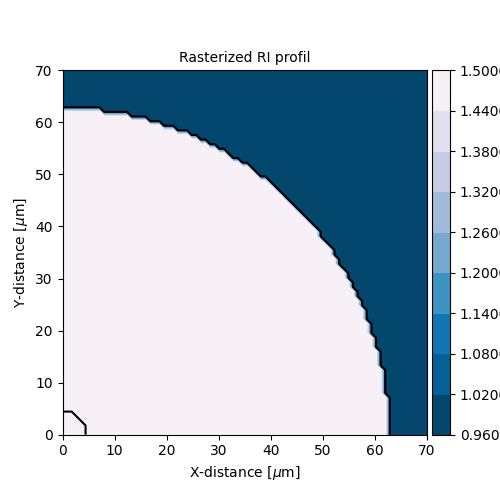
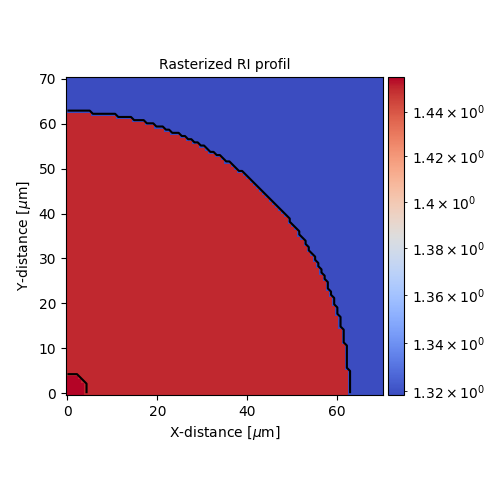
added holes to rasterized mesh

diff --git a/docs/build/html/Examples.html b/docs/build/html/Examples.html
@@ -62,7 +62,7 @@
 </pre></div>
 </td></tr></table></div>
 </div>
-<a class="reference internal image-reference" href="_images/Geometry:1x1coupler.png"><img alt="_images/Geometry:1x1coupler.png" src="_images/Geometry:1x1coupler.png" style="width: 600px;" /></a>
+<a class="reference internal image-reference" href="_images/Geometry:1x1coupler.png"><img alt="_images/Geometry:1x1coupler.png" src="_images/Geometry:1x1coupler.png" style="width: 900px;" /></a>
 <div class="literal-block-wrapper docutils container" id="id2">
 <div class="code-block-caption"><span class="caption-text"><strong>Coupler geometry: 2x2</strong></span><a class="headerlink" href="#id2" title="Permalink to this code">¶</a></div>
 <div class="highlight-python notranslate"><table class="highlighttable"><tr><td class="linenos"><div class="linenodiv"><pre>1
@@ -79,7 +79,7 @@
 </pre></div>
 </td></tr></table></div>
 </div>
-<a class="reference internal image-reference" href="_images/Geometry:2x2coupler.png"><img alt="_images/Geometry:2x2coupler.png" src="_images/Geometry:2x2coupler.png" style="width: 600px;" /></a>
+<a class="reference internal image-reference" href="_images/Geometry:2x2coupler.png"><img alt="_images/Geometry:2x2coupler.png" src="_images/Geometry:2x2coupler.png" style="width: 900px;" /></a>
 <div class="literal-block-wrapper docutils container" id="id3">
 <div class="code-block-caption"><span class="caption-text"><strong>Coupler geometry: 3x3</strong></span><a class="headerlink" href="#id3" title="Permalink to this code">¶</a></div>
 <div class="highlight-python notranslate"><table class="highlighttable"><tr><td class="linenos"><div class="linenodiv"><pre>1
@@ -96,7 +96,7 @@
 </pre></div>
 </td></tr></table></div>
 </div>
-<a class="reference internal image-reference" href="_images/Geometry:3x3coupler.png"><img alt="_images/Geometry:3x3coupler.png" src="_images/Geometry:3x3coupler.png" style="width: 600px;" /></a>
+<a class="reference internal image-reference" href="_images/Geometry:3x3coupler.png"><img alt="_images/Geometry:3x3coupler.png" src="_images/Geometry:3x3coupler.png" style="width: 900px;" /></a>
 <div class="literal-block-wrapper docutils container" id="id4">
 <div class="code-block-caption"><span class="caption-text"><strong>Coupler geometry: 4x4</strong></span><a class="headerlink" href="#id4" title="Permalink to this code">¶</a></div>
 <div class="highlight-python notranslate"><table class="highlighttable"><tr><td class="linenos"><div class="linenodiv"><pre>1
@@ -113,7 +113,7 @@
 </pre></div>
 </td></tr></table></div>
 </div>
-<a class="reference internal image-reference" href="_images/Geometry:4x4coupler.png"><img alt="_images/Geometry:4x4coupler.png" src="_images/Geometry:4x4coupler.png" style="width: 600px;" /></a>
+<a class="reference internal image-reference" href="_images/Geometry:4x4coupler.png"><img alt="_images/Geometry:4x4coupler.png" src="_images/Geometry:4x4coupler.png" style="width: 900px;" /></a>
 </div>
 <div class="section" id="compute-indexes-coupling-adiabatic">
 <h2>Compute indexes-coupling-adiabatic<a class="headerlink" href="#compute-indexes-coupling-adiabatic" title="Permalink to this headline">¶</a></h2>
@@ -177,11 +177,11 @@
 </pre></div>
 </td></tr></table></div>
 </div>
-<a class="reference internal image-reference" href="_images/Full:1x1Coupler_profile.png"><img alt="_images/Full:1x1Coupler_profile.png" src="_images/Full:1x1Coupler_profile.png" style="width: 600px;" /></a>
-<a class="reference internal image-reference" href="_images/Full:1x1Coupler_index.png"><img alt="_images/Full:1x1Coupler_index.png" src="_images/Full:1x1Coupler_index.png" style="width: 600px;" /></a>
-<a class="reference internal image-reference" href="_images/Full:1x1Coupler_coupling.png"><img alt="_images/Full:1x1Coupler_coupling.png" src="_images/Full:1x1Coupler_coupling.png" style="width: 600px;" /></a>
-<a class="reference internal image-reference" href="_images/Full:1x1Coupler_adiabatic.png"><img alt="_images/Full:1x1Coupler_adiabatic.png" src="_images/Full:1x1Coupler_adiabatic.png" style="width: 600px;" /></a>
-<a class="reference internal image-reference" href="_images/Full:1x1Coupler_fields.png"><img alt="_images/Full:1x1Coupler_fields.png" src="_images/Full:1x1Coupler_fields.png" style="width: 600px;" /></a>
+<a class="reference internal image-reference" href="_images/Full:1x1Coupler_profile.png"><img alt="_images/Full:1x1Coupler_profile.png" src="_images/Full:1x1Coupler_profile.png" style="width: 900px;" /></a>
+<a class="reference internal image-reference" href="_images/Full:1x1Coupler_index.png"><img alt="_images/Full:1x1Coupler_index.png" src="_images/Full:1x1Coupler_index.png" style="width: 900px;" /></a>
+<a class="reference internal image-reference" href="_images/Full:1x1Coupler_coupling.png"><img alt="_images/Full:1x1Coupler_coupling.png" src="_images/Full:1x1Coupler_coupling.png" style="width: 900px;" /></a>
+<a class="reference internal image-reference" href="_images/Full:1x1Coupler_adiabatic.png"><img alt="_images/Full:1x1Coupler_adiabatic.png" src="_images/Full:1x1Coupler_adiabatic.png" style="width: 900px;" /></a>
+<a class="reference internal image-reference" href="_images/Full:1x1Coupler_fields.png"><img alt="_images/Full:1x1Coupler_fields.png" src="_images/Full:1x1Coupler_fields.png" style="width: 900px;" /></a>
 <div class="literal-block-wrapper docutils container" id="id6">
 <div class="code-block-caption"><span class="caption-text"><strong>2x2 Coupler</strong></span><a class="headerlink" href="#id6" title="Permalink to this code">¶</a></div>
 <div class="highlight-python notranslate"><table class="highlighttable"><tr><td class="linenos"><div class="linenodiv"><pre> 1
@@ -258,11 +258,11 @@
 </pre></div>
 </td></tr></table></div>
 </div>
-<a class="reference internal image-reference" href="_images/Full:2x2Coupler_profile.png"><img alt="_images/Full:2x2Coupler_profile.png" src="_images/Full:2x2Coupler_profile.png" style="width: 600px;" /></a>
-<a class="reference internal image-reference" href="_images/Full:2x2Coupler_index.png"><img alt="_images/Full:2x2Coupler_index.png" src="_images/Full:2x2Coupler_index.png" style="width: 600px;" /></a>
-<a class="reference internal image-reference" href="_images/Full:2x2Coupler_coupling.png"><img alt="_images/Full:2x2Coupler_coupling.png" src="_images/Full:2x2Coupler_coupling.png" style="width: 600px;" /></a>
-<a class="reference internal image-reference" href="_images/Full:2x2Coupler_adiabatic.png"><img alt="_images/Full:2x2Coupler_adiabatic.png" src="_images/Full:2x2Coupler_adiabatic.png" style="width: 600px;" /></a>
-<a class="reference internal image-reference" href="_images/Full:2x2Coupler_fields.png"><img alt="_images/Full:2x2Coupler_fields.png" src="_images/Full:2x2Coupler_fields.png" style="width: 600px;" /></a>
+<a class="reference internal image-reference" href="_images/Full:2x2Coupler_profile.png"><img alt="_images/Full:2x2Coupler_profile.png" src="_images/Full:2x2Coupler_profile.png" style="width: 900px;" /></a>
+<a class="reference internal image-reference" href="_images/Full:2x2Coupler_index.png"><img alt="_images/Full:2x2Coupler_index.png" src="_images/Full:2x2Coupler_index.png" style="width: 900px;" /></a>
+<a class="reference internal image-reference" href="_images/Full:2x2Coupler_coupling.png"><img alt="_images/Full:2x2Coupler_coupling.png" src="_images/Full:2x2Coupler_coupling.png" style="width: 900px;" /></a>
+<a class="reference internal image-reference" href="_images/Full:2x2Coupler_adiabatic.png"><img alt="_images/Full:2x2Coupler_adiabatic.png" src="_images/Full:2x2Coupler_adiabatic.png" style="width: 900px;" /></a>
+<a class="reference internal image-reference" href="_images/Full:2x2Coupler_fields.png"><img alt="_images/Full:2x2Coupler_fields.png" src="_images/Full:2x2Coupler_fields.png" style="width: 900px;" /></a>
 <div class="literal-block-wrapper docutils container" id="id7">
 <div class="code-block-caption"><span class="caption-text"><strong>3x3 Coupler</strong></span><a class="headerlink" href="#id7" title="Permalink to this code">¶</a></div>
 <div class="highlight-python notranslate"><table class="highlighttable"><tr><td class="linenos"><div class="linenodiv"><pre> 1
@@ -335,11 +335,11 @@
 </pre></div>
 </td></tr></table></div>
 </div>
-<a class="reference internal image-reference" href="_images/Full:3x3Coupler_profile.png"><img alt="_images/Full:3x3Coupler_profile.png" src="_images/Full:3x3Coupler_profile.png" style="width: 600px;" /></a>
-<a class="reference internal image-reference" href="_images/Full:3x3Coupler_index.png"><img alt="_images/Full:3x3Coupler_index.png" src="_images/Full:3x3Coupler_index.png" style="width: 600px;" /></a>
-<a class="reference internal image-reference" href="_images/Full:3x3Coupler_coupling.png"><img alt="_images/Full:3x3Coupler_coupling.png" src="_images/Full:3x3Coupler_coupling.png" style="width: 600px;" /></a>
-<a class="reference internal image-reference" href="_images/Full:3x3Coupler_adiabatic.png"><img alt="_images/Full:3x3Coupler_adiabatic.png" src="_images/Full:3x3Coupler_adiabatic.png" style="width: 600px;" /></a>
-<a class="reference internal image-reference" href="_images/Full:3x3Coupler_fields.png"><img alt="_images/Full:3x3Coupler_fields.png" src="_images/Full:3x3Coupler_fields.png" style="width: 600px;" /></a>
+<a class="reference internal image-reference" href="_images/Full:3x3Coupler_profile.png"><img alt="_images/Full:3x3Coupler_profile.png" src="_images/Full:3x3Coupler_profile.png" style="width: 900px;" /></a>
+<a class="reference internal image-reference" href="_images/Full:3x3Coupler_index.png"><img alt="_images/Full:3x3Coupler_index.png" src="_images/Full:3x3Coupler_index.png" style="width: 900px;" /></a>
+<a class="reference internal image-reference" href="_images/Full:3x3Coupler_coupling.png"><img alt="_images/Full:3x3Coupler_coupling.png" src="_images/Full:3x3Coupler_coupling.png" style="width: 900px;" /></a>
+<a class="reference internal image-reference" href="_images/Full:3x3Coupler_adiabatic.png"><img alt="_images/Full:3x3Coupler_adiabatic.png" src="_images/Full:3x3Coupler_adiabatic.png" style="width: 900px;" /></a>
+<a class="reference internal image-reference" href="_images/Full:3x3Coupler_fields.png"><img alt="_images/Full:3x3Coupler_fields.png" src="_images/Full:3x3Coupler_fields.png" style="width: 900px;" /></a>
 <div class="literal-block-wrapper docutils container" id="id8">
 <div class="code-block-caption"><span class="caption-text"><strong>4x4 Coupler</strong></span><a class="headerlink" href="#id8" title="Permalink to this code">¶</a></div>
 <div class="highlight-python notranslate"><table class="highlighttable"><tr><td class="linenos"><div class="linenodiv"><pre> 1
@@ -420,11 +420,11 @@
 </pre></div>
 </td></tr></table></div>
 </div>
-<a class="reference internal image-reference" href="_images/Full:4x4Coupler_profile.png"><img alt="_images/Full:4x4Coupler_profile.png" src="_images/Full:4x4Coupler_profile.png" style="width: 600px;" /></a>
-<a class="reference internal image-reference" href="_images/Full:4x4Coupler_index.png"><img alt="_images/Full:4x4Coupler_index.png" src="_images/Full:4x4Coupler_index.png" style="width: 600px;" /></a>
-<a class="reference internal image-reference" href="_images/Full:4x4Coupler_coupling.png"><img alt="_images/Full:4x4Coupler_coupling.png" src="_images/Full:4x4Coupler_coupling.png" style="width: 600px;" /></a>
-<a class="reference internal image-reference" href="_images/Full:4x4Coupler_adiabatic.png"><img alt="_images/Full:4x4Coupler_adiabatic.png" src="_images/Full:4x4Coupler_adiabatic.png" style="width: 600px;" /></a>
-<a class="reference internal image-reference" href="_images/Full:4x4Coupler_fields.png"><img alt="_images/Full:4x4Coupler_fields.png" src="_images/Full:4x4Coupler_fields.png" style="width: 600px;" /></a>
+<a class="reference internal image-reference" href="_images/Full:4x4Coupler_profile.png"><img alt="_images/Full:4x4Coupler_profile.png" src="_images/Full:4x4Coupler_profile.png" style="width: 900px;" /></a>
+<a class="reference internal image-reference" href="_images/Full:4x4Coupler_index.png"><img alt="_images/Full:4x4Coupler_index.png" src="_images/Full:4x4Coupler_index.png" style="width: 900px;" /></a>
+<a class="reference internal image-reference" href="_images/Full:4x4Coupler_coupling.png"><img alt="_images/Full:4x4Coupler_coupling.png" src="_images/Full:4x4Coupler_coupling.png" style="width: 900px;" /></a>
+<a class="reference internal image-reference" href="_images/Full:4x4Coupler_adiabatic.png"><img alt="_images/Full:4x4Coupler_adiabatic.png" src="_images/Full:4x4Coupler_adiabatic.png" style="width: 900px;" /></a>
+<a class="reference internal image-reference" href="_images/Full:4x4Coupler_fields.png"><img alt="_images/Full:4x4Coupler_fields.png" src="_images/Full:4x4Coupler_fields.png" style="width: 900px;" /></a>
 </div>
 </div>
 

diff --git a/docs/build/html/searchindex.js b/docs/build/html/searchindex.js
@@ -1,1 +1,1 @@
-Search.setIndex({docnames:["Code","Examples","Theory","index"],envversion:{"sphinx.domains.c":2,"sphinx.domains.changeset":1,"sphinx.domains.citation":1,"sphinx.domains.cpp":3,"sphinx.domains.index":1,"sphinx.domains.javascript":2,"sphinx.domains.math":2,"sphinx.domains.python":2,"sphinx.domains.rst":2,"sphinx.domains.std":2,"sphinx.ext.viewcode":1,sphinx:56},filenames:["Code.rst","Examples.rst","Theory.rst","index.rst"],objects:{},objnames:{},objtypes:{},terms:{"005":1,"100":1,"110":1,"120":1,"130":1,"1550":3,"160":1,"1x1":1,"1x1coupler":1,"200":1,"2021":3,"250":1,"2x2":1,"2x2coupler":1,"2xy":[],"3x3":1,"4x4":1,"4x4coupler":1,"4x4couplerlol":[],"import":[1,3],The:[2,3],Using:3,aim:3,all:[1,2,3],also:3,ambiant_air:3,amplitud:2,appli:2,apt:3,arrai:2,avail:3,axi:2,begin:2,behavior:2,between:[2,3],bk7_glass:3,bmatrix:2,bound:2,build:3,can:[2,3],circl:1,clad:1,coeffici:3,collabor:3,command:3,compon:2,comput:[2,3],configur:2,constant:2,contain:2,core0:1,core1:1,core2:1,core3:1,coupl:3,coupler:[1,3],debug:1,defin:2,delta:2,delta_:2,descart:3,develop:3,direct:2,directori:1,doc:3,each:2,eigenvalu:2,electr:2,email:3,encourag:3,end:2,environ:2,eqnarrai:[],equat:[2,3],error:1,factor:2,fals:1,field:[1,2],file:3,follow:[2,3],form:3,frac:2,from:1,full:[],fused2:1,fused3:1,fused4:1,fused_silica:[1,3],fusion:1,geo:1,get:3,getmod:1,hamiltonian:2,hamiltonien:[],have:[2,3],helmholtz:2,henc:3,here:2,houl:3,how:2,howev:2,html:3,imag:[],index:[2,3],individu:3,input:1,instal:3,int_a:2,itrf:1,itri:1,know:2,lambda:2,lambda_1:2,lambda_2:2,lambda_3:2,lambda_:2,lambda_i:2,latest:3,left:2,librari:3,light:2,mac:3,martin:3,materi:3,matplotlib:3,micromet:3,mode:3,must:3,need:2,nmax:1,notic:3,nsol:1,nstep:1,number:2,numpi:3,object:1,occur:2,offer:3,one:3,optic:2,order:[2,3],orthogon:2,panda:3,paramet:3,partial:2,pdf:[],pip3:3,pleasur:3,plot:1,poinsinet:3,polymtl:3,port:3,posit:1,possibl:3,pratic:3,problem:2,produc:3,profil:2,project:3,propag:3,psi:2,psi_:2,psi_i:2,psi_j:2,py27:3,pymiesim:3,python:3,radi:1,radiu:1,rang:3,reduc:2,refract:[2,3],relat:2,requir:3,retriev:2,rho:2,right:2,same:2,savefig:1,scipi:3,sellmeier:1,shape:3,simul:3,sivri:3,slice:2,sol:1,solut:2,solver:1,some:3,sphinx:3,sqrt:2,stand:3,still:3,studi:2,sudo:3,supermod:[1,2],supymod:[1,3],supysolv:1,system:2,thei:2,theta:2,thi:[2,3],those:3,togeth:2,toler:1,tool:3,txt:3,under:3,unit:3,unix:3,use:3,useful:3,vacuum:[],vari:2,vector:2,veri:3,via:3,want:3,wave:2,wavelength:[1,3],where:2,wide:3,widetild:2,would:3,written:3,xbound:1,xsym:1,ybound:1,you:3,ysym:1},titles:["Source code","Examples","Theoretical background","Documentation"],titleterms:{"super":2,adiabat:[1,2],background:2,code:0,comput:1,contact:3,coupl:[1,2],criterion:2,deped:3,document:3,exampl:1,gener:1,geometri:1,index:1,inform:3,mode:2,packag:3,propag:2,sellmeier:3,sourc:0,theoret:2,theori:2}})
+Search.setIndex({docnames:["Code","Examples","Theory","index"],envversion:{"sphinx.domains.c":2,"sphinx.domains.changeset":1,"sphinx.domains.citation":1,"sphinx.domains.cpp":3,"sphinx.domains.index":1,"sphinx.domains.javascript":2,"sphinx.domains.math":2,"sphinx.domains.python":2,"sphinx.domains.rst":2,"sphinx.domains.std":2,"sphinx.ext.viewcode":1,sphinx:56},filenames:["Code.rst","Examples.rst","Theory.rst","index.rst"],objects:{},objnames:{},objtypes:{},terms:{"005":1,"100":1,"110":1,"120":1,"130":1,"1550":3,"160":1,"1x1":1,"1x1coupler":1,"200":1,"2021":3,"250":1,"2x2":1,"2x2coupler":1,"2xy":[],"3x3":1,"4x4":1,"4x4coupler":1,"4x4couplerlol":[],"import":[1,3],The:[2,3],Using:3,aim:3,all:[1,2,3],also:3,ambiant_air:3,amplitud:2,appli:2,apt:3,arrai:2,avail:3,axi:2,begin:2,behavior:2,between:[2,3],bk7_glass:3,bmatrix:2,bound:2,build:3,can:[2,3],circl:1,clad:1,coeffici:3,collabor:3,command:3,compon:2,comput:[2,3],configur:2,constant:2,contain:2,core0:1,core1:1,core2:1,core3:1,coupl:3,coupler:[1,3],debug:1,defin:2,delta:2,delta_:2,descart:3,develop:3,direct:2,directori:1,doc:3,each:2,eigenvalu:2,electr:2,email:3,encourag:3,end:2,ensur:2,environ:2,eqnarrai:[],equat:[2,3],error:1,factor:2,fals:1,field:[1,2],file:3,follow:[2,3],form:3,frac:2,from:1,full:[],fused2:1,fused3:1,fused4:1,fused_silica:[1,3],fusion:1,geo:1,get:3,getmod:1,hamiltonian:2,hamiltonien:[],have:[2,3],helmholtz:2,henc:3,here:2,houl:3,how:2,howev:2,html:3,imag:[],index:[2,3],individu:3,input:1,instal:3,int_a:2,itrf:1,itri:1,know:2,lambda:2,lambda_1:2,lambda_2:2,lambda_3:2,lambda_:2,lambda_i:2,latest:3,left:2,librari:3,light:2,mac:3,martin:3,materi:3,matplotlib:3,micromet:3,mode:3,must:3,need:2,nmax:1,notic:3,nsol:1,nstep:1,number:2,numpi:3,object:1,occur:2,offer:3,one:3,optic:2,order:[2,3],orthogon:2,panda:3,paramet:3,partial:2,pdf:[],pip3:3,pleasur:3,plot:1,poinsinet:3,polymtl:3,port:3,posit:1,possibl:3,pratic:3,problem:2,produc:3,profil:2,project:3,propag:3,psi:2,psi_:2,psi_i:2,psi_j:2,py27:3,pymiesim:3,python:3,radi:1,radiu:1,rang:3,reduc:2,refract:[2,3],relat:2,requir:3,respect:2,retriev:2,rho:2,right:2,same:2,savefig:1,scipi:3,sellmeier:1,shape:3,simul:3,sivri:3,slice:2,sol:1,solut:2,solver:1,some:3,sphinx:3,sqrt:2,stand:3,still:3,studi:2,sudo:3,supermod:[1,2],supymod:[1,3],supysolv:1,system:2,thei:2,theta:2,thi:[2,3],those:3,togeth:2,toler:1,tool:3,txt:3,under:3,unit:3,unix:3,use:3,useful:3,vacuum:[],vari:2,vector:2,veri:3,via:3,want:3,wave:2,wavelength:[1,3],where:2,wide:3,widetild:2,wont:2,would:3,written:3,xbound:1,xsym:1,ybound:1,you:3,ysym:1},titles:["Source code","Examples","Theoretical background","Documentation"],titleterms:{"super":2,adiabat:[1,2],background:2,code:0,comput:1,contact:3,coupl:[1,2],criterion:2,deped:3,document:3,exampl:1,gener:1,geometri:1,index:1,inform:3,mode:2,packag:3,propag:2,sellmeier:3,sourc:0,theoret:2,theori:2}})

diff --git a/docs/build/html/Theory.html b/docs/build/html/Theory.html
@@ -104,6 +104,7 @@ at each z-axis slices we can compute the mode-propagation.</p>
 <h2>Adiabatic criterion<a class="headerlink" href="#adiabatic-criterion" title="Permalink to this headline">¶</a></h2>
 <div class="math notranslate nohighlight">
 \[\widetilde{C}_{ij} (z) = C_{ij} . \left( \frac{1}{\rho} \frac{d\rho}{dz} \right)^{-1}\]</div>
+<p>The respect of the adiabatic criterion ensure that modes wont be coupling together.</p>
 </div>
 </div>
 

diff --git a/SuPyModes/Geometry.py b/SuPyModes/Geometry.py
@@ -68,11 +68,16 @@ class Geometry(object):
 
         """
 
-        poly = cascaded_union(polygone)
-
-        obj_ext = Path(list( polygone.exterior.coords))
+        obj_ext = Path(list( polygone.Object.exterior.coords))
 
         obj_ext = obj_ext.contains_points(self.coords).reshape(self.Shape)
+
+        if polygone.hole is not None:
+            obj_int = Path(list( polygone.hole.exterior.coords))
+
+            obj_int = np.logical_not( obj_int.contains_points(self.coords).reshape(self.Shape) )
+
+            obj_ext = np.logical_and( obj_ext, obj_int )
 
         return obj_ext
 
@@ -112,7 +117,7 @@ class Geometry(object):
         self.coords = np.vstack((x,y)).T
 
         for object in self.Objects:
-            obj = self.rasterize_polygone(object.Object)
+            obj = self.rasterize_polygone(object)
             self.add_object_to_mesh(obj, object.Index)
 
 
@@ -160,6 +165,7 @@ class Geometry(object):
         cbar = plt.colorbar(sm, ax=ax, cax=cax)
 
         ax.set_aspect('equal')
+        plt.tight_layout()
         plt.show()
 
 
@@ -169,6 +175,7 @@ class Circle(object):
         self.Points   = Position
         self.Radi     = Radi
         self.Index    = Index
+        self.hole     = None
         self.Init()
 
     def Init(self):
@@ -186,6 +193,7 @@ class BaseFused():
         self.Radius  = Radius
         self.Fusion  = Fusion
         self.Angle   = Angle
+        self.hole    = None
         self.N       = len(self.Angle)
         self.Theta   = Deg2Rad(Theta)
         self.GetFibers()
@@ -355,6 +363,7 @@ class Fused4(BaseFused):
                          Theta   = 45,
                          Index   = Index)
 
+
         if self.Topology == 'concave':
             self.Bound = (Radius*1.5, 4000)
 
@@ -370,6 +379,8 @@ class Fused4(BaseFused):
         Coupler  = ObjectUnion(self.Fibers)
 
         hole     = CenterTriangle.difference(Coupler)
+
+        self.hole = hole
 
         Convex   = Coupler.convex_hull.difference(hole)
 

diff --git a/examples/Full:4x4Coupler.py b/examples/Full:4x4Coupler.py
@@ -15,8 +15,8 @@ Core3 = Circle( Position=Clad.C[3], Radi = 4.2, Index = Fused_silica(1.55)+0.005
 Geo = Geometry(Objects = [Clad, Core0, Core1, Core2, Core3],
                Xbound  = [0, 160],
                Ybound  = [0, 160],
-               Nx      = 10,
-               Ny      = 10)
+               Nx      = 100,
+               Ny      = 100)
 
 Geo.Plot()
 

diff --git a/examples/Full:2x2Coupler.py b/examples/Full:2x2Coupler.py
@@ -13,8 +13,8 @@ Core1 = Circle( Position=Clad.C[1], Radi = 4.2, Index = Fused_silica(1.55)+0.005
 Geo = Geometry(Objects = [Clad, Core0, Core1],
                Xbound  = [-100, 100],
                Ybound  = [-100, 100],
-               Nx      = 80,
-               Ny      = 80)
+               Nx      = 100,
+               Ny      = 100)
 
 Geo.Plot()
 

diff --git a/examples/Full:3x3Coupler.py b/examples/Full:3x3Coupler.py
@@ -31,4 +31,6 @@ SuperModes = Sol.GetModes(wavelength = 1.55,
                           Xsym       = 0,
                           Ysym       = 0 )
 
-SuperModes.Plot(Input = ['Index', 'Coupling', 'Adiabatic', 'Fields'], nMax=4)
+SuperModes.SaveFig(Directory  = '3x3Coupler',
+                   Input      = ['All'],
+                   nMax       = 4)

diff --git a/examples/Full:1x1Coupler.py b/examples/Full:1x1Coupler.py
@@ -9,8 +9,8 @@ Core0 = Circle( Position=Clad.C[0], Radi = 4.2, Index = Fused_silica(1.0)+0.005 
 Geo = Geometry(Objects = [Clad, Core0],
                Xbound  = [0, 70],
                Ybound  = [0, 70],
-               Nx      = 10,
-               Ny      = 10)
+               Nx      = 100,
+               Ny      = 100)
 
 Geo.Plot()
 

diff --git a/docs/source/Examples.rst b/docs/source/Examples.rst
@@ -13,7 +13,7 @@ Generate Geometry
     :linenos:
 
 .. image:: ../images/Geometry:1x1coupler.png
-   :width: 600
+   :width: 900
 
 
 
@@ -24,7 +24,7 @@ Generate Geometry
     :linenos:
 
 .. image:: ../images/Geometry:2x2coupler.png
-   :width: 600
+   :width: 900
 
 
 
@@ -35,7 +35,7 @@ Generate Geometry
     :linenos:
 
 .. image:: ../images/Geometry:3x3coupler.png
-   :width: 600
+   :width: 900
 
 
 
@@ -46,7 +46,7 @@ Generate Geometry
     :linenos:
 
 .. image:: ../images/Geometry:4x4coupler.png
-   :width: 600
+   :width: 900
 
 
 
@@ -60,19 +60,19 @@ Compute indexes-coupling-adiabatic
     :linenos:
 
 .. image:: ../images/Full:1x1Coupler_profile.png
-   :width: 600
+   :width: 900
 
 .. image:: ../images/Full:1x1Coupler_index.png
-   :width: 600
+   :width: 900
 
 .. image:: ../images/Full:1x1Coupler_coupling.png
-   :width: 600
+   :width: 900
 
 .. image:: ../images/Full:1x1Coupler_adiabatic.png
-   :width: 600
+   :width: 900
 
 .. image:: ../images/Full:1x1Coupler_fields.png
-   :width: 600
+   :width: 900
 
 
 
@@ -83,19 +83,19 @@ Compute indexes-coupling-adiabatic
    :linenos:
 
 .. image:: ../images/Full:2x2Coupler_profile.png
-   :width: 600
+   :width: 900
 
 .. image:: ../images/Full:2x2Coupler_index.png
-   :width: 600
+   :width: 900
 
 .. image:: ../images/Full:2x2Coupler_coupling.png
-   :width: 600
+   :width: 900
 
 .. image:: ../images/Full:2x2Coupler_adiabatic.png
-   :width: 600
+   :width: 900
 
 .. image:: ../images/Full:2x2Coupler_fields.png
-   :width: 600
+   :width: 900
 
 
 
@@ -106,19 +106,19 @@ Compute indexes-coupling-adiabatic
    :linenos:
 
 .. image:: ../images/Full:3x3Coupler_profile.png
-   :width: 600
+   :width: 900
 
 .. image:: ../images/Full:3x3Coupler_index.png
-   :width: 600
+   :width: 900
 
 .. image:: ../images/Full:3x3Coupler_coupling.png
-   :width: 600
+   :width: 900
 
 .. image:: ../images/Full:3x3Coupler_adiabatic.png
-   :width: 600
+   :width: 900
 
 .. image:: ../images/Full:3x3Coupler_fields.png
-   :width: 600
+   :width: 900
 
 
 
@@ -130,16 +130,16 @@ Compute indexes-coupling-adiabatic
 
 
 .. image:: ../images/Full:4x4Coupler_profile.png
-   :width: 600
+   :width: 900
 
 .. image:: ../images/Full:4x4Coupler_index.png
-   :width: 600
+   :width: 900
 
 .. image:: ../images/Full:4x4Coupler_coupling.png
-   :width: 600
+   :width: 900
 
 .. image:: ../images/Full:4x4Coupler_adiabatic.png
-   :width: 600
+   :width: 900
 
 .. image:: ../images/Full:4x4Coupler_fields.png
-   :width: 600
+   :width: 900
